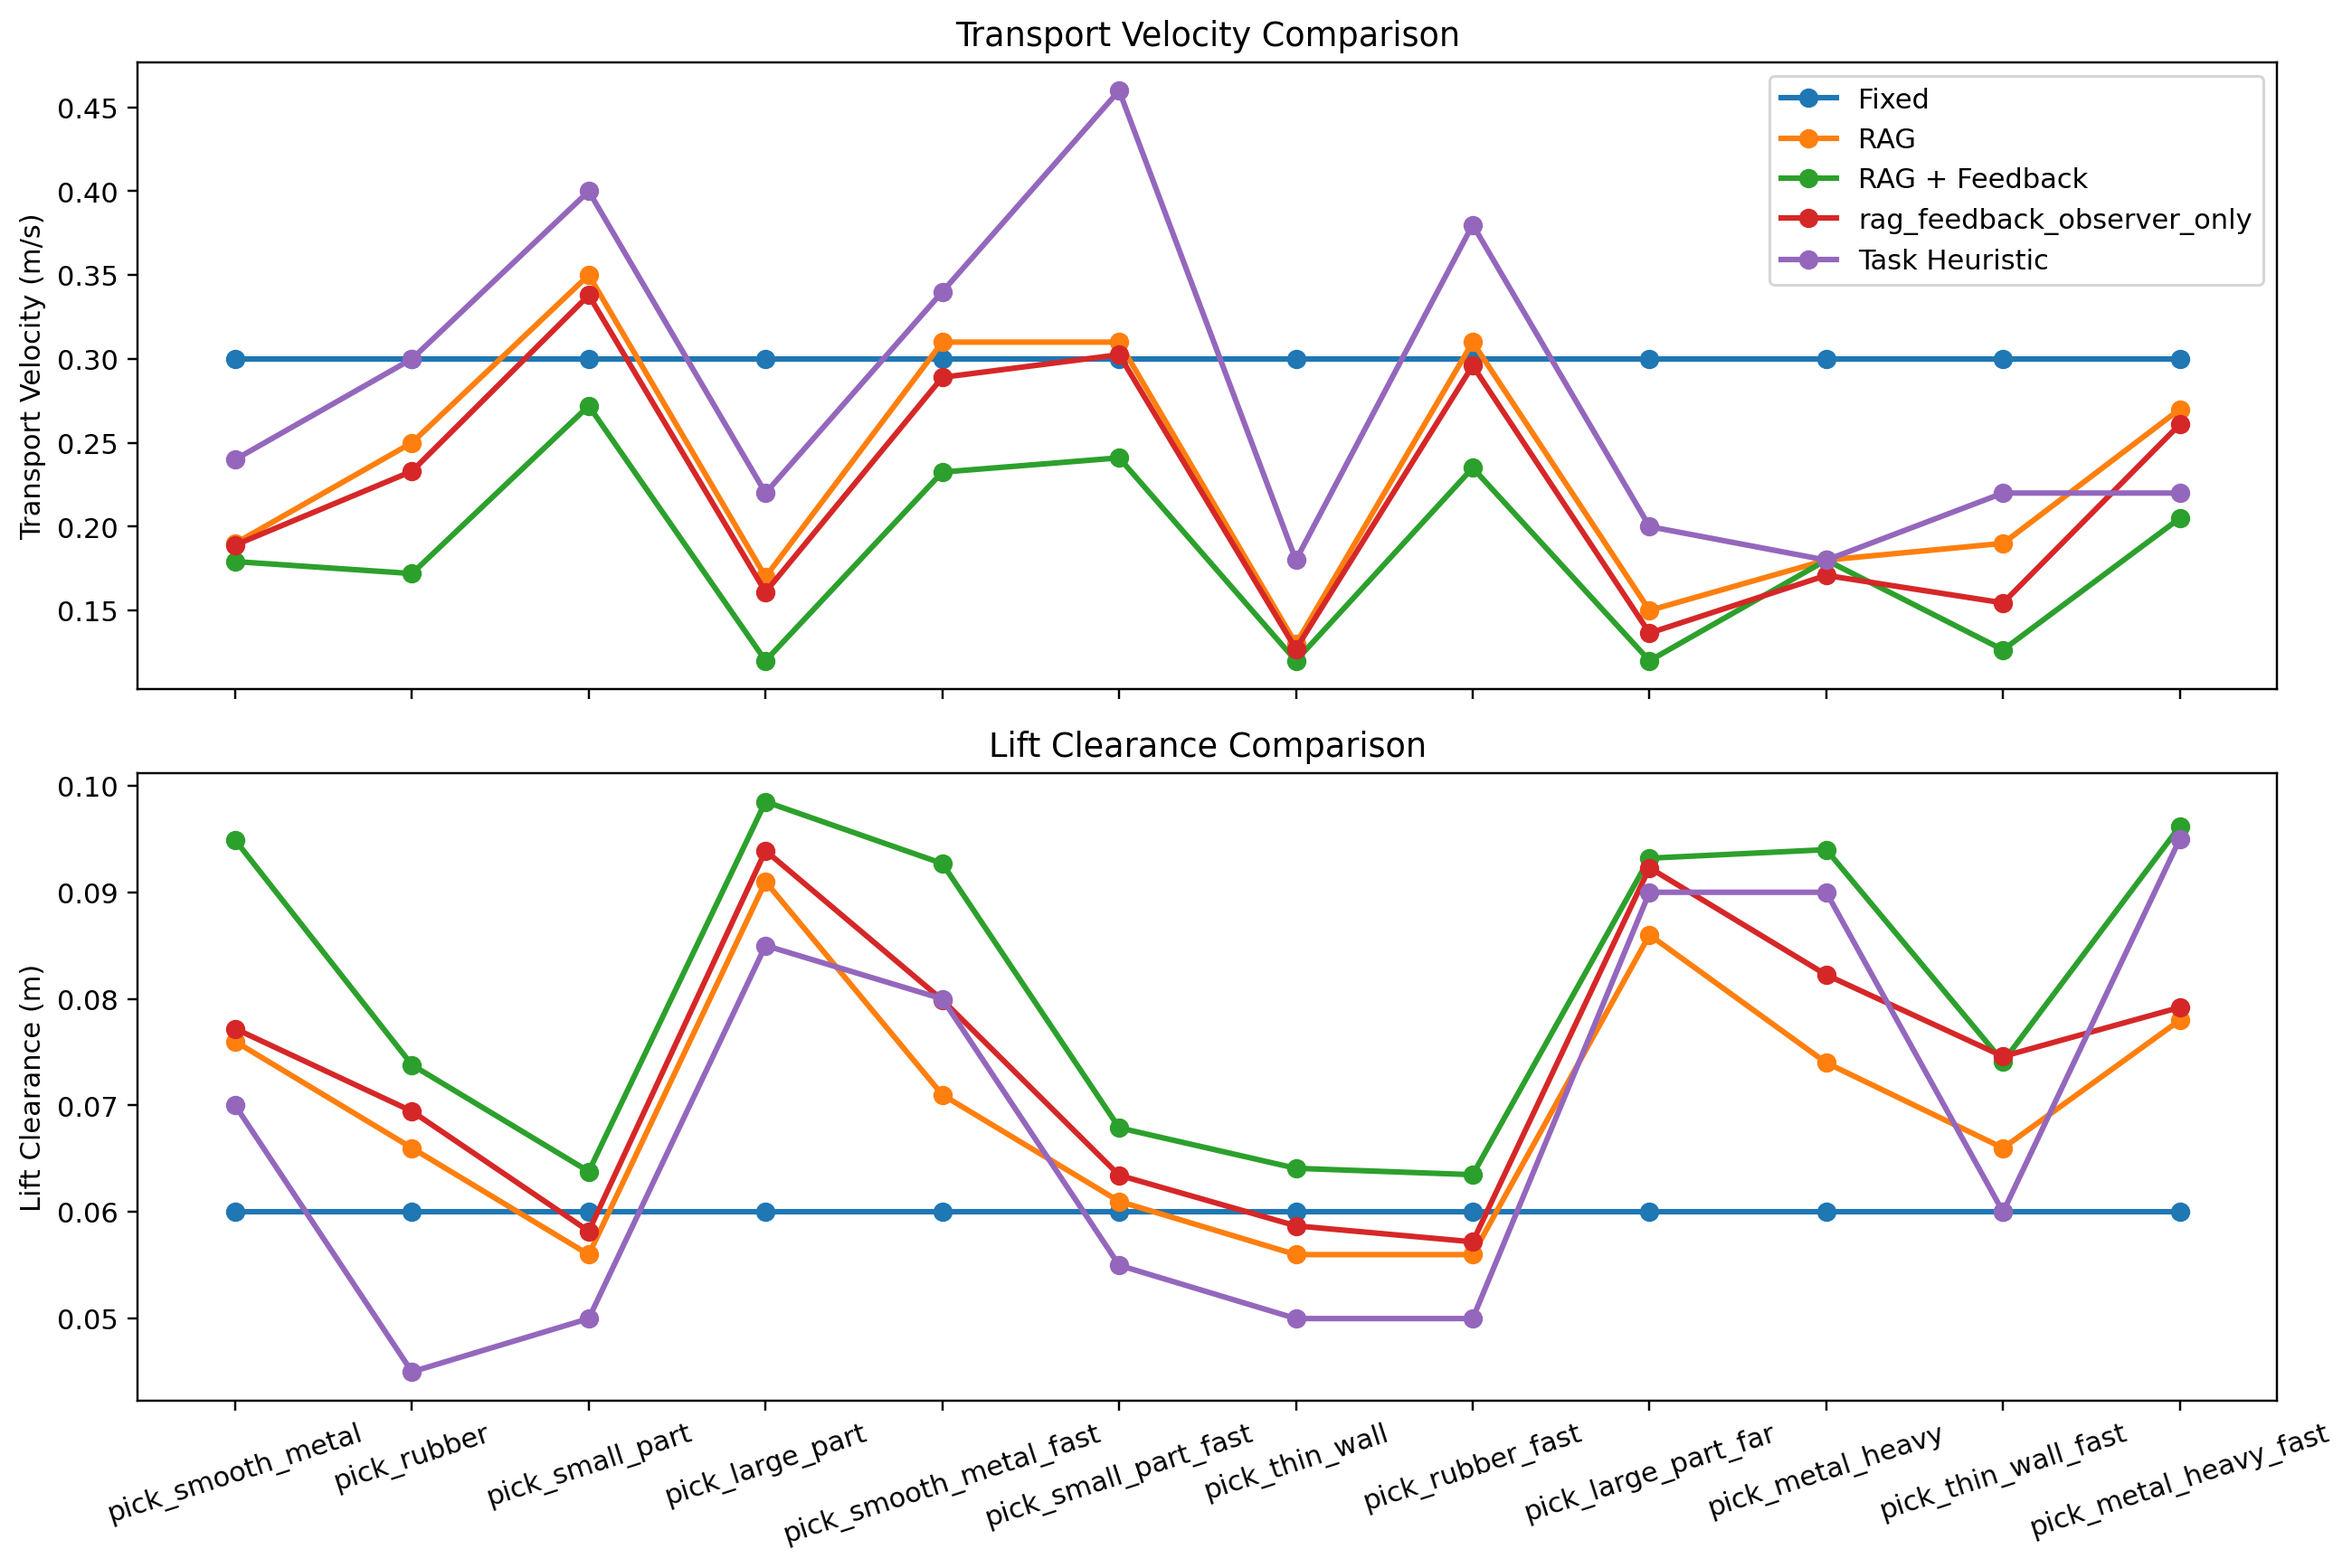
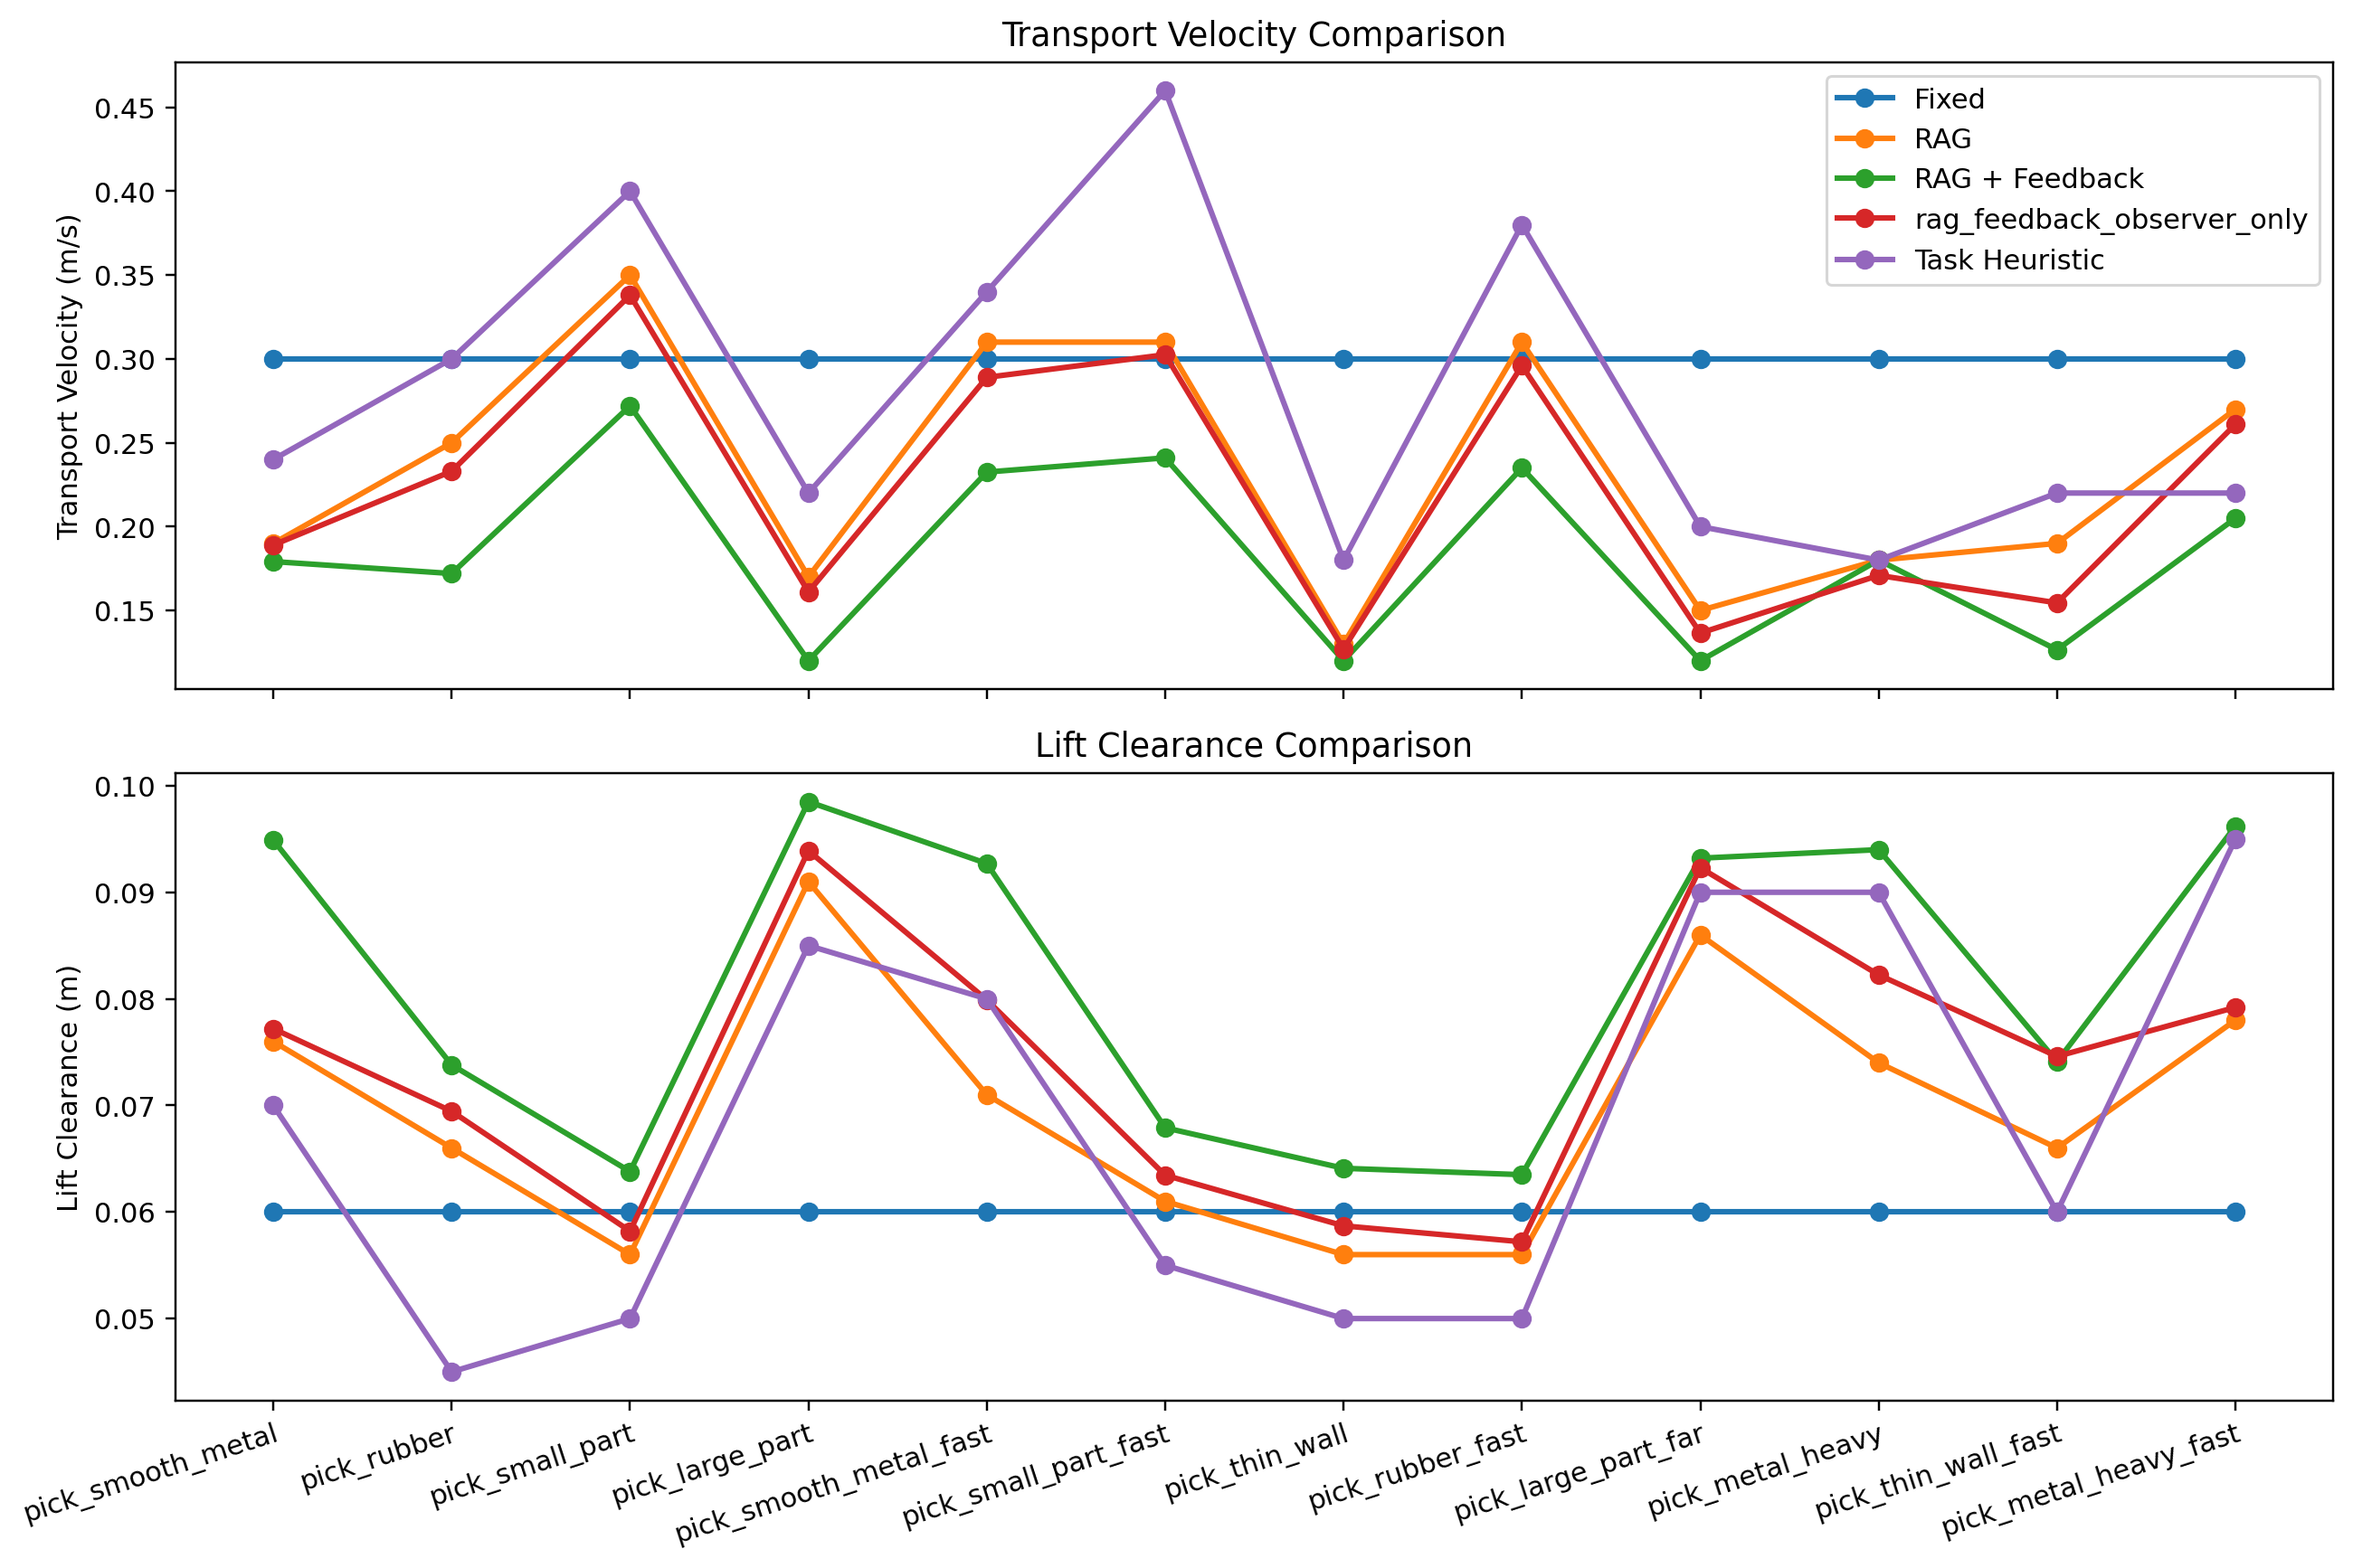
Fix task label anchoring in simulation plots

diff --git a/reporting/visualize_results.py b/reporting/visualize_results.py
@@ -120,6 +120,12 @@ def _task_names(sim_rows: list[dict]) -> list[str]:
     return [row["task_id"] for row in sim_rows]
 
 
+def _set_task_xticklabels(ax, x, tasks: list[str]) -> None:
+    ax.set_xticks(x)
+    ax.set_xticklabels(tasks)
+    plt.setp(ax.get_xticklabels(), rotation=18, ha="right", rotation_mode="anchor")
+
+
 def plot_qa_summary(qa_detail: dict, output_dir: Path) -> None:
     summaries = qa_detail["summaries"]
     methods = list(summaries.keys())
@@ -234,8 +240,7 @@ def plot_sim_success(sim_rows: list[dict], output_dir: Path) -> None:
     ax.set_ylim(0, 1.05)
     ax.set_ylabel("Success Rate")
     ax.set_title("Simulation Success Rate Comparison")
-    ax.set_xticks(x)
-    ax.set_xticklabels(tasks, rotation=18)
+    _set_task_xticklabels(ax, x, tasks)
     ax.legend()
     _save(fig, output_dir / "simulation_success_rates.png")
 
@@ -267,8 +272,7 @@ def plot_sim_success_ci(sim_rows: list[dict], output_dir: Path) -> None:
     ax.set_ylim(0, 1.05)
     ax.set_ylabel("Success Rate")
     ax.set_title("Simulation Success Rate with 95% CI")
-    ax.set_xticks(x)
-    ax.set_xticklabels(tasks, rotation=18)
+    _set_task_xticklabels(ax, x, tasks)
     ax.legend()
     _save(fig, output_dir / "simulation_success_ci.png")
 
@@ -290,8 +294,7 @@ def plot_sim_time_steps(sim_rows: list[dict], output_dir: Path) -> None:
     axes[0].set_title("Simulation Time")
     axes[1].set_ylabel("Avg Steps")
     axes[1].set_title("Simulation Steps")
-    axes[1].set_xticks(x)
-    axes[1].set_xticklabels(tasks, rotation=18)
+    _set_task_xticklabels(axes[1], x, tasks)
     axes[0].legend()
     _save(fig, output_dir / "simulation_time_steps.png")
 
@@ -310,8 +313,7 @@ def plot_sim_force(sim_rows: list[dict], output_dir: Path) -> None:
         ax.plot(x, forces, marker="o", linewidth=2, label=METHOD_LABELS.get(method, method))
     ax.set_ylabel("Gripper Force (N)")
     ax.set_title("Predicted Force and Reference Range")
-    ax.set_xticks(x)
-    ax.set_xticklabels(tasks, rotation=18)
+    _set_task_xticklabels(ax, x, tasks)
     ax.legend()
     _save(fig, output_dir / "simulation_force_ranges.png")
 
@@ -329,8 +331,7 @@ def plot_sim_distance_error(sim_rows: list[dict], output_dir: Path) -> None:
         ax.bar(x + offset, values, width=width, label=METHOD_LABELS.get(method, method))
     ax.set_ylabel("Avg Distance Error")
     ax.set_title("Simulation Distance Error")
-    ax.set_xticks(x)
-    ax.set_xticklabels(tasks, rotation=18)
+    _set_task_xticklabels(ax, x, tasks)
     ax.legend()
     _save(fig, output_dir / "simulation_distance_error.png")
 
@@ -351,8 +352,7 @@ def plot_sim_force_deviation(sim_rows: list[dict], output_dir: Path) -> None:
         ax.bar(x + offset, values, width=width, label=METHOD_LABELS.get(method, method))
     ax.set_ylabel("Absolute Force Deviation (N)")
     ax.set_title("Deviation from Reference Force Center")
-    ax.set_xticks(x)
-    ax.set_xticklabels(tasks, rotation=18)
+    _set_task_xticklabels(ax, x, tasks)
     ax.legend()
     _save(fig, output_dir / "simulation_force_deviation.png")
 
@@ -370,8 +370,7 @@ def plot_sim_approach_height(sim_rows: list[dict], output_dir: Path) -> None:
         ax.plot(x, heights, marker="o", linewidth=2, label=METHOD_LABELS.get(method, method))
     ax.set_ylabel("Approach Height (m)")
     ax.set_title("Approach Height Comparison")
-    ax.set_xticks(x)
-    ax.set_xticklabels(tasks, rotation=18)
+    _set_task_xticklabels(ax, x, tasks)
     ax.legend()
     _save(fig, output_dir / "simulation_approach_height.png")
 
@@ -391,8 +390,7 @@ def plot_sim_control_plan(sim_rows: list[dict], output_dir: Path) -> None:
     axes[0].set_title("Transport Velocity Comparison")
     axes[1].set_ylabel("Lift Clearance (m)")
     axes[1].set_title("Lift Clearance Comparison")
-    axes[1].set_xticks(x)
-    axes[1].set_xticklabels(tasks, rotation=18)
+    _set_task_xticklabels(axes[1], x, tasks)
     axes[0].legend()
     _save(fig, output_dir / "simulation_control_plan.png")
 
@@ -437,8 +435,7 @@ def plot_sim_success_gain(sim_rows: list[dict], output_dir: Path) -> None:
     ax.axhline(0.0, color="#555555", linewidth=1)
     ax.set_ylabel("Success Rate Gain")
     ax.set_title(f"{primary_label} Gain over Baselines")
-    ax.set_xticks(x)
-    ax.set_xticklabels(tasks, rotation=18)
+    _set_task_xticklabels(ax, x, tasks)
     ax.legend()
     _save(fig, output_dir / "simulation_rag_gain.png")
 
@@ -486,8 +483,7 @@ def plot_multi_seed_success(sim_rows: list[dict], output_dir: Path) -> None:
     ax.set_ylim(0, 1.05)
     ax.set_ylabel("Mean Success Rate")
     ax.set_title("Multi-seed Success Rate")
-    ax.set_xticks(x)
-    ax.set_xticklabels(tasks, rotation=18)
+    _set_task_xticklabels(ax, x, tasks)
     ax.legend()
     _save(fig, output_dir / "simulation_multi_seed_success.png")
 
@@ -520,8 +516,7 @@ def plot_sim_belief_diagnostics(sim_rows: list[dict], output_dir: Path) -> None:
     axes[1].set_ylim(0, 1.05)
     axes[1].set_ylabel("Conservative Rate")
     axes[1].set_title("RAG Uncertainty Conservative Mode Rate")
-    axes[1].set_xticks(x)
-    axes[1].set_xticklabels(tasks, rotation=18)
+    _set_task_xticklabels(axes[1], x, tasks)
     _save(fig, output_dir / "simulation_belief_diagnostics.png")
 
 

diff --git a/tests/test_reporting_schema.py b/tests/test_reporting_schema.py
@@ -1,5 +1,7 @@
 import unittest
 
+import matplotlib.pyplot as plt
+
 from reporting import generate_showcase as showcase
 from reporting import visualize_results as viz
 
@@ -53,6 +55,18 @@ class ReportingSchemaTest(unittest.TestCase):
         self.assertIsNone(
             showcase._mean_method_gap(rows, "rag_feedback", "direct_llm", "success_rate_mean"),
         )
+
+    def test_task_tick_labels_use_anchor_rotation_for_long_names(self):
+        fig, ax = plt.subplots()
+        try:
+            viz._set_task_xticklabels(ax, [0, 1], ["pick_smooth_metal", "pick_large_part_far"])
+            labels = ax.get_xticklabels()
+            self.assertEqual(list(ax.get_xticks()), [0, 1])
+            self.assertEqual(labels[0].get_rotation(), 18.0)
+            self.assertEqual(labels[0].get_ha(), "right")
+            self.assertEqual(labels[0].get_rotation_mode(), "anchor")
+        finally:
+            plt.close(fig)
 
 
 if __name__ == "__main__":
